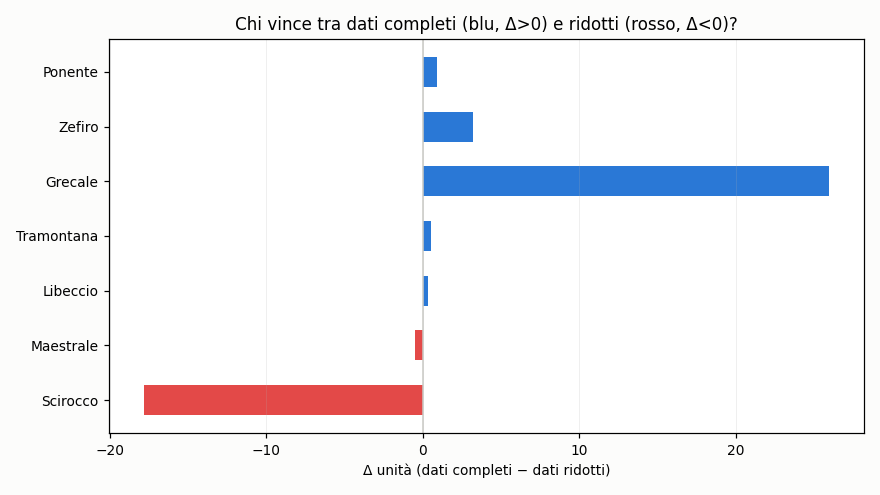
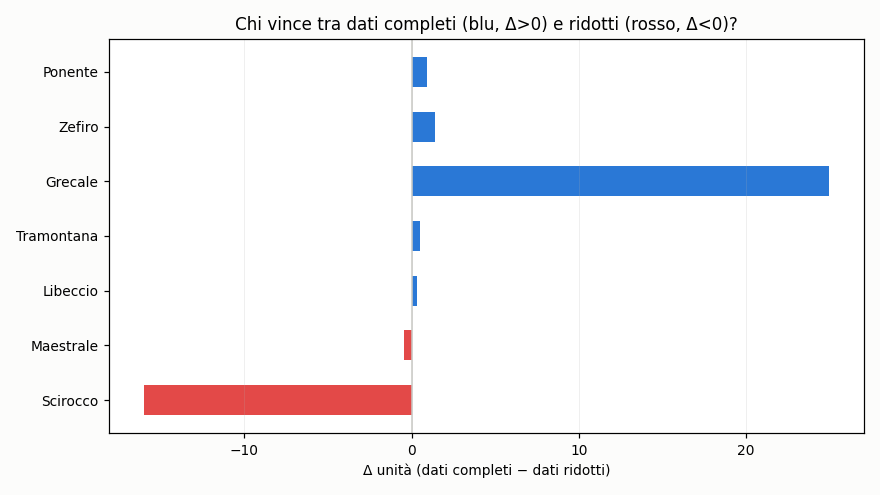
aggiornamento 2026-07-27 15:11 UTC

diff --git a/README.md b/README.md
@@ -37,9 +37,9 @@ scala in unità). Non indichiamo quale.
 
 ## Grafici
 
-![Coppie: dati completi vs ridotti](https://raw.githubusercontent.com/Kitem19/ippica-track-record/main/charts/equity_pairs.png?v=9cbc7ce8)
+![Coppie: dati completi vs ridotti](https://raw.githubusercontent.com/Kitem19/ippica-track-record/main/charts/equity_pairs.png?v=e5806b19)
 
-![Delta per coppia](https://raw.githubusercontent.com/Kitem19/ippica-track-record/main/charts/coppie_delta.png?v=640b6257)
+![Delta per coppia](https://raw.githubusercontent.com/Kitem19/ippica-track-record/main/charts/coppie_delta.png?v=a82cc0f7)
 
 ### Come leggere i grafici
 
@@ -56,34 +56,34 @@ scala in unità). Non indichiamo quale.
 
 _Poche giornate: numeri ancora rumorosi, si conclude a fine fase (31/7)._
 
-- **Scirocco**: dati ridotti avanti di 17,8u — qui gli extra non aiutano
+- **Scirocco**: dati ridotti avanti di 16,0u — qui gli extra non aiutano
 - **Maestrale**: in sostanziale pareggio — troppo presto per dire
 - **Libeccio**: in sostanziale pareggio — troppo presto per dire
 - **Tramontana**: in sostanziale pareggio — troppo presto per dire
-- **Grecale**: dati completi avanti di 26,0u
-- **Zefiro**: dati completi avanti di 3,2u
+- **Grecale**: dati completi avanti di 25,0u
+- **Zefiro**: in sostanziale pareggio — troppo presto per dire
 - **Ponente**: in sostanziale pareggio — troppo presto per dire
 
 ## Classifica (conteggio ufficiale)
 
 | Sistema | Cassa (u) | P/L (u) | Selezioni | Escluse | Stato |
 |---|---|---|---|---|---|
-| Grecale | 25,7 | +5,7 | 307 | 4 | 🟢 |
-| Scirocco-B | 17,8 | -2,2 | 241 | 0 | 🟢 |
-| Zefiro | 2,8 | -17,2 | 264 | 8 | 🟢 |
-| Maestrale-B | 0,0 | -20,0 | 100 | 240 | 🛑 |
-| Ponente | 0,0 | -20,0 | 213 | 28 | 🛑 |
-| Scirocco | 0,0 | -20,1 | 80 | 267 | 🛑 |
+| Grecale | 24,7 | +4,7 | 308 | 4 | 🟢 |
+| Scirocco-B | 16,0 | -4,0 | 242 | 0 | 🟢 |
+| Zefiro | 0,9 | -19,1 | 265 | 8 | 🟢 |
+| Maestrale-B | 0,0 | -20,0 | 100 | 241 | 🛑 |
+| Ponente | 0,0 | -20,0 | 213 | 29 | 🛑 |
+| Scirocco | 0,0 | -20,1 | 80 | 268 | 🛑 |
 | Grecale-B | 0,0 | -20,2 | 137 | 175 | 🛑 |
 | Tramontana | 0,0 | -20,3 | 45 | 310 | 🛑 |
-| Zefiro-B | 0,0 | -20,5 | 143 | 73 | 🛑 |
-| Maestrale | 0,0 | -20,5 | 104 | 259 | 🛑 |
-| Libeccio | 0,0 | -20,6 | 181 | 168 | 🛑 |
-| Tramontana-B | 0,0 | -20,8 | 324 | 15 | 🛑 |
-| Libeccio-B | 0,0 | -20,9 | 119 | 182 | 🛑 |
+| Zefiro-B | 0,0 | -20,5 | 143 | 74 | 🛑 |
+| Maestrale | 0,0 | -20,5 | 104 | 260 | 🛑 |
+| Libeccio | 0,0 | -20,6 | 181 | 169 | 🛑 |
+| Tramontana-B | 0,0 | -20,8 | 324 | 16 | 🛑 |
+| Libeccio-B | 0,0 | -20,9 | 119 | 183 | 🛑 |
 | Ponente-B | 0,0 | -21,0 | 63 | 88 | 🛑 |
 
-_Aggiornato: 27/07 17:06_
+_Aggiornato: 27/07 17:11_
 ---
 *Nessuna delle informazioni qui pubblicate costituisce consiglio di gioco.
 Il gioco può causare dipendenza — 18+.*
